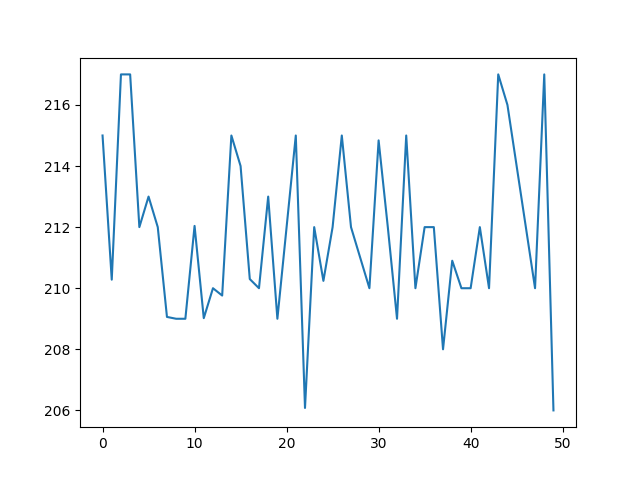
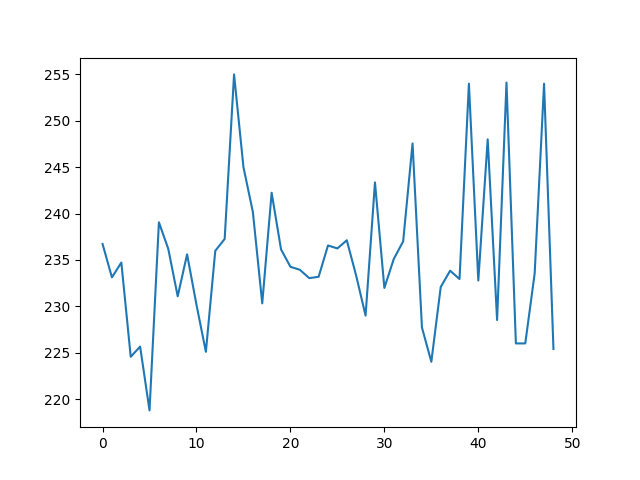
Lab 3 - Various improvements

diff --git a/Lab3/service.py b/Lab3/service.py
@@ -2,6 +2,7 @@ from map import Map
 from drone import Drone
 import random
 from constants import Constants
+import numpy as np
 
 class Service:
     def __init__(self, repository):
@@ -12,9 +13,6 @@ class Service:
         self.__mapSurface = self.__map.getMapSurface()
         self.__drone = Drone(5, 5) #I'll place it by default on an empty position
         self.__repository = repository
-    
-    def addNewPopulation(self, populationSize, individualMaxSize, startingCoordinates):
-        self.__repository.addNewPopulation(populationSize, individualMaxSize, startingCoordinates, self.__mapSurface)
     
     def getPopulations(self):
         return self.__repository.getPopulations()
@@ -41,12 +39,40 @@ class Service:
         
         self.__repository.addExistingPopulation(population) 
     
-    def runGeneration(self):
+    def __runGeneration(self):
         for iteration in range(Constants.ITERATIONS_PER_GENERATION):
             self.__iteration()
         population = self.__repository.getPopulations().pop(0)
         population.setIndividuals(population.selection(Constants.POPULATION_SIZE))
         self.__repository.addExistingPopulation(population)
+        
+    def __simulateSeed(self, crtSeed):
+        random.seed(crtSeed)
+        self.__repository.removeAllPopulations()
+        self.__repository.addNewPopulation(Constants.POPULATION_SIZE, Constants.MAX_INDIVIDUAL_SIZE, (5, 5), self.__mapSurface)
+        
+        bestIndividualFitness = 0
+        lastAverageFitness = 0
+        for generation in range(Constants.GENERATION_COUNT):
+            self.__runGeneration()
+            population = self.getPopulations()[0]
+            populationFitness = []
+            for individual in population.getIndividuals():
+                populationFitness.append(individual.getFitness())
+            bestIndividualFitness = max(bestIndividualFitness, max(populationFitness))
+            lastAverageFitness = np.average(populationFitness)
+        
+        return lastAverageFitness, bestIndividualFitness
+    
+    def runProgram(self):
+        solutionAverages = [] # for each seed, average of the fitness for the final generation (= solution)
+        print ("seed - final gen fitness avg - bestFitness")
+        for seed in range(Constants.FIRST_SEED, Constants.LAST_SEED):
+            finalGenerationAverage, bestFitness = self.__simulateSeed(seed)
+            print ("%02d - %.3f - %d" % (seed, finalGenerationAverage, bestFitness))
+            solutionAverages.append(finalGenerationAverage)
+            
+        return solutionAverages
     
     def getMapSurface(self):
         return self.__map.getMapSurface()

diff --git a/Lab3/main.py b/Lab3/main.py
@@ -4,25 +4,10 @@ from service import Service
 import numpy
 import matplotlib.pyplot as plt
 from constants import Constants
-import random
 
-def simulateSeed():
-    repo = Repository()
-    service = Service(repo)
-    service.addNewPopulation(Constants.POPULATION_SIZE, Constants.MAX_INDIVIDUAL_SIZE, (5, 5))
-    
-    bestIndividualFitness = 0
-    lastAverageFitness = 0
-    for generation in range(Constants.GENERATION_COUNT):
-        service.runGeneration()
-        population = service.getPopulations()[0]
-        populationFitness = []
-        for individual in population.getIndividuals():
-            populationFitness.append(individual.getFitness())
-        bestIndividualFitness = max(bestIndividualFitness, max(populationFitness))
-        lastAverageFitness = numpy.average(populationFitness)
-        
-    return lastAverageFitness, bestIndividualFitness
+def plotGraph(solutionAverages):
+    plt.plot(solutionAverages)
+    plt.savefig("solutionAverageFitness.png")
 
 def logToFile(solutionAverages):
     logFile = open("results.txt", "a")
@@ -35,31 +20,11 @@ def logToFile(solutionAverages):
     logFile.close()
 
 def main():
-    # create a menu
-    #   1. map options:
-    #         a. create random map
-    #         b. load a map
-    #         c. save a map
-    #         d visualise map
-    #   2. EA options:
-    #         a. parameters setup
-    #         b. run the solver
-    #         c. visualise the statistics
-    #         d. view the drone moving on a path
-    #              function gui.movingDrone(currentMap, path, speed, markseen)
-    #              ATENTION! the function doesn't check if the path passes trough walls
-
-    solutionAverages = [] # for each seed, average of the fitness for the final generation (= solution)
-    print ("seed - final gen fitness avg - bestFitness")
-    for i in range(Constants.FIRST_SEED, Constants.LAST_SEED):
-        random.seed(i)
-        finalGenerationAverage, bestFitness = simulateSeed()
-        print ("%0d - %.3f - %d" % (i, finalGenerationAverage, bestFitness))
-        solutionAverages.append(finalGenerationAverage)
-    
+    repository = Repository()
+    service = Service(repository)
+    solutionAverages = service.runProgram()
+    plotGraph(solutionAverages)
     logToFile(solutionAverages)
-    plt.plot(solutionAverages)
-    plt.savefig("solutionAverageFitness.png")
     
 if __name__ == "__main__":
     main()

diff --git a/Lab3/individual.py b/Lab3/individual.py
@@ -151,12 +151,18 @@ class Individual:
     def __mutate(self):
         # perform a mutation with respect to the representation
         lastChromosomeIndex = len(self.__chromosome) - 1
-        if random.random() < 0.15: 
-            firstGene, lastGene = 0, lastChromosomeIndex // 2 # mutate something in the first half of the chromosome
+        if lastChromosomeIndex < 0:
+            return
+        if lastChromosomeIndex <= 3:
+            affectedGene = random.randint(0, lastChromosomeIndex)
         else:
-            firstGene, lastGene = lastChromosomeIndex // 2 + 1, lastChromosomeIndex # mutate sth in the second half of the chromosome
-
-        affectedGene = random.randint(firstGene, lastGene)
+            if random.random() < 0.15: 
+                firstGene, lastGene = 0, lastChromosomeIndex // 2 # mutate something in the first half of the chromosome
+            else:
+                firstGene, lastGene = lastChromosomeIndex // 2 + 1, lastChromosomeIndex # mutate sth in the second half of the chromosome
+    
+            affectedGene = random.randint(firstGene, lastGene)
+        #affectedGene = random.randint(0, len(self.__chromosome) - 1)
         self.__chromosome[affectedGene] = (self.__chromosome[affectedGene] + random.randint(1, 3)) % 4
         
         self.__chromosome = PathFixer(self.__startingCoordinates, self.__chromosome, self.__map).fixPath()

diff --git a/Lab3/constants.py b/Lab3/constants.py
@@ -25,11 +25,11 @@ class Constants:
     
     TIME_BETWEEN_MOVES = 50 # in miliseconds
     POPULATION_SIZE = 50
-    MAX_INDIVIDUAL_SIZE = 35
-    ITERATIONS_PER_GENERATION = 1000
+    MAX_INDIVIDUAL_SIZE = 50
+    ITERATIONS_PER_GENERATION = 100
     MUTATION_PROBABILITY = 0.05
     CROSSOVER_PROBABILITY = 0.8
-    GENERATION_COUNT = 13
+    GENERATION_COUNT = 15
     
-    FIRST_SEED = 50
-    LAST_SEED = 100
+    FIRST_SEED = 1
+    LAST_SEED = 50

diff --git a/Lab3/repository.py b/Lab3/repository.py
@@ -12,3 +12,6 @@ class Repository:
     
     def addExistingPopulation(self, newPopulation):
         self.__populations.append(newPopulation)
+        
+    def removeAllPopulations(self):
+        self.__populations.clear()
